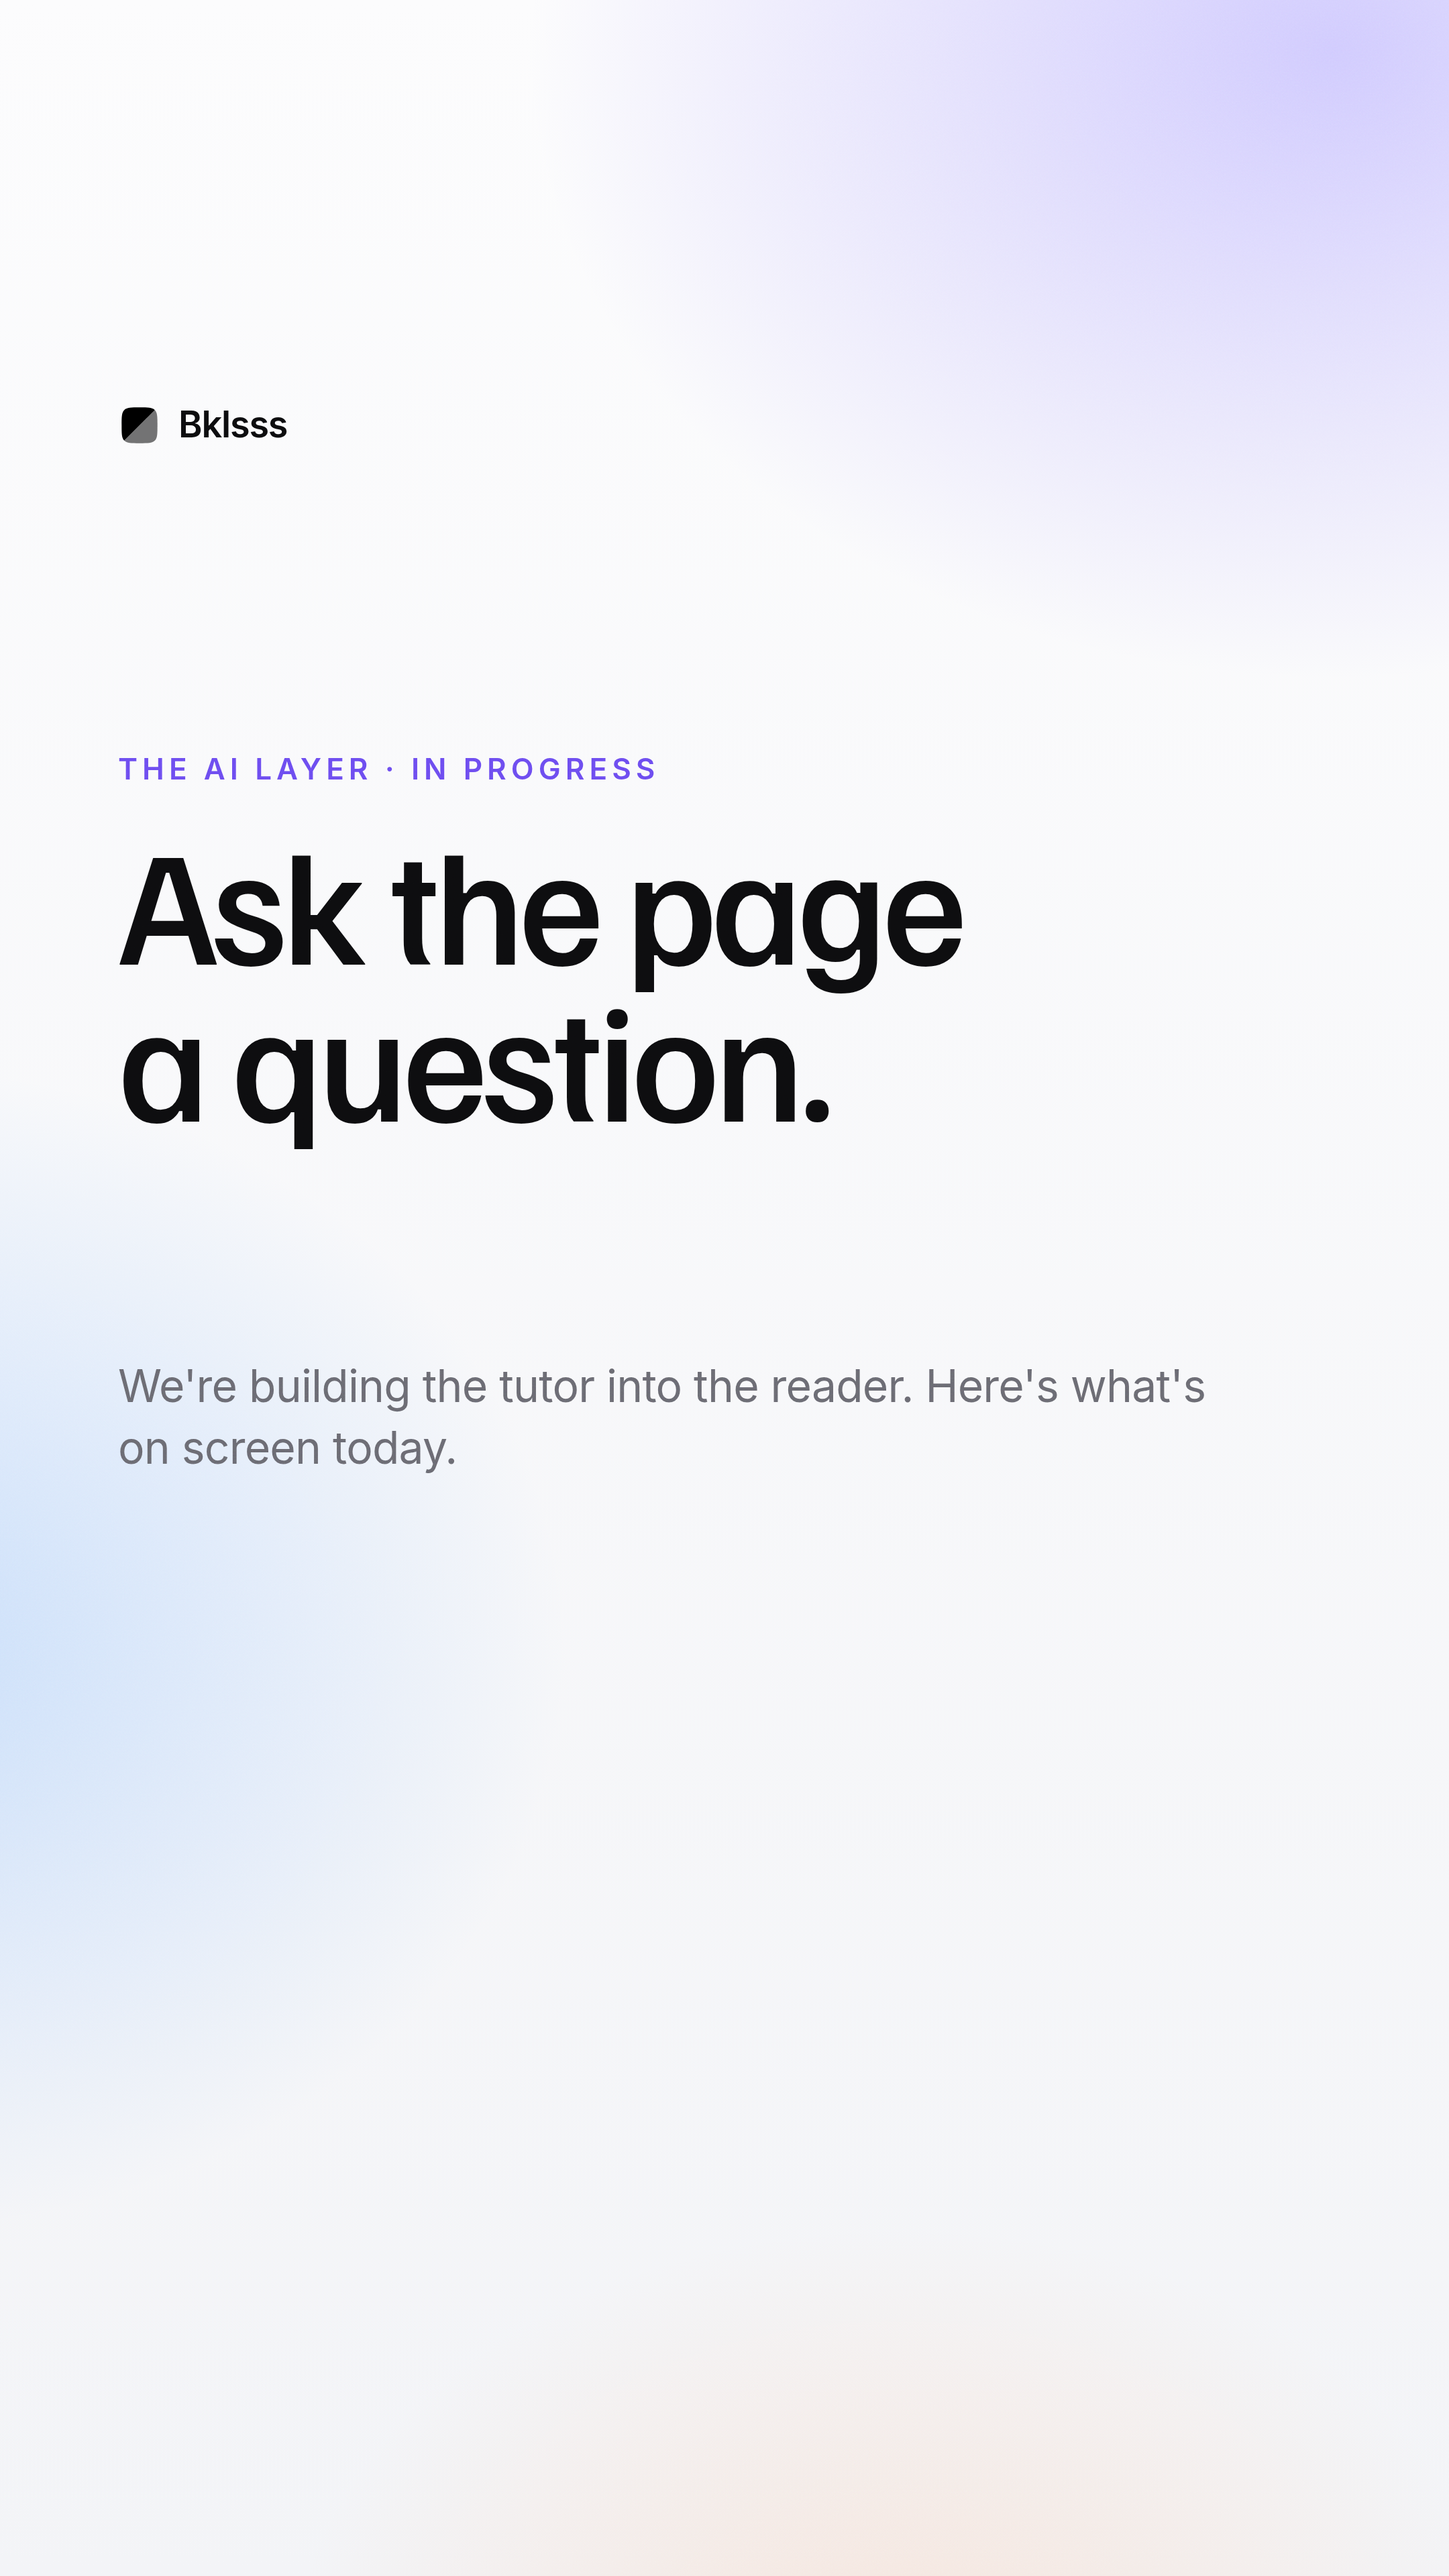
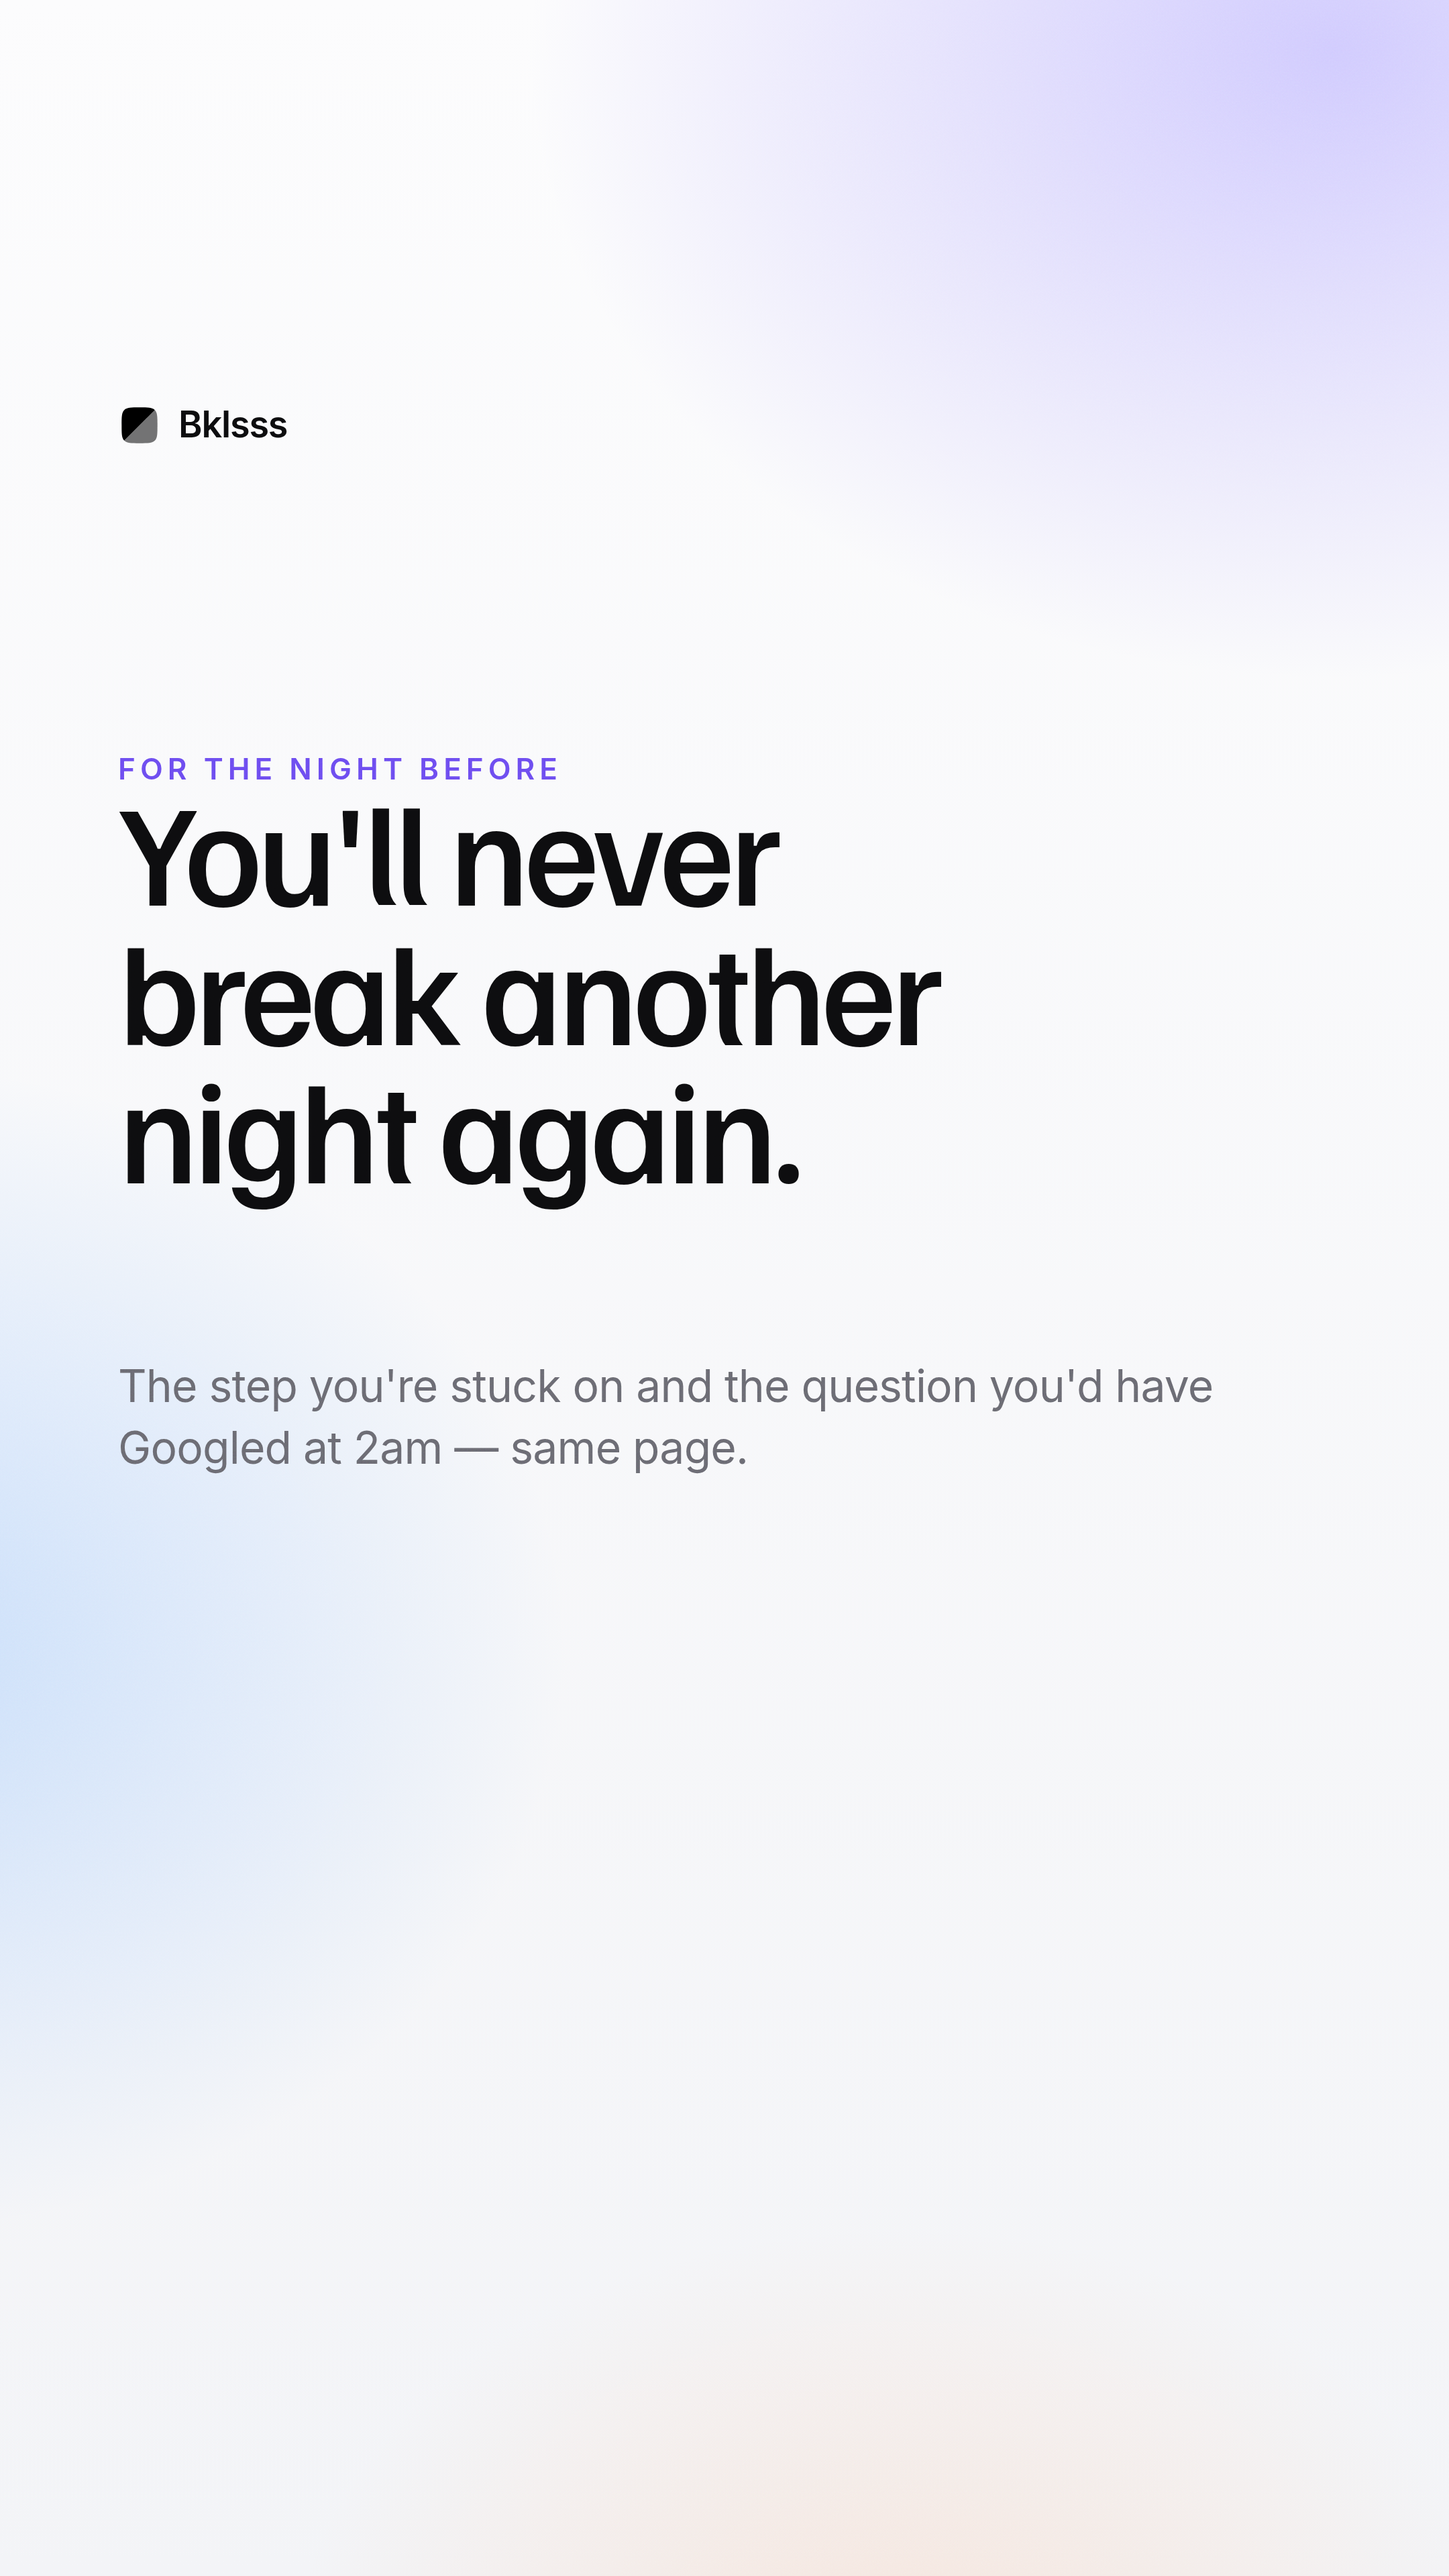
Marketing: open the morning carousel on the all-nighter hook
Slide 1 now leads with "You'll never break another night again" — the
promise first, the build second. Caption and post title follow it. The rest
of the carousel is unchanged: top bar, STEP panel, composer, voice mode,
search CTA, all still shot from the current build.

cover() gained `size` and `titleTop` so a three-line headline can drop to
108px and start higher instead of overrunning the safe area at 122px.

Changed region(s): [[0.062, 0.2812, 0.6824, 0.4688], [0.062, 0.5312, 0.8375, 0.5938]]

diff --git a/platform/marketing/posts/2026-07-26/PLAN.md b/platform/marketing/posts/2026-07-26/PLAN.md
@@ -16,11 +16,12 @@ search-bar CTA to close. Post in order (`01 → 06`).
 ---
 
 ### ☀ Morning — `morning/`
-**Post title:** The tutor, being built into the page
+**Post title:** You'll never break another night again
 **Caption:**
-> Building the AI layer into Booklesss in the open 🛠 It doesn't answer yet —
-> this is the part that's finished: a panel for the step you're on, a box to ask
-> in, and a voice mode that lights up as you talk. Answers next.
+> You'll never break another night again 🌙 Building the AI layer into Booklesss
+> in the open: it doesn't answer yet, but this part is done — a panel for the
+> step you're on, a box to ask in right where you got stuck, and a voice mode
+> that lights up as you talk. Answers next.
 > Search **booklesss** (three s's) on Google — we're the first result. 👇
 > #buildinpublic #edtech #ai #designengineering #studytok
 
